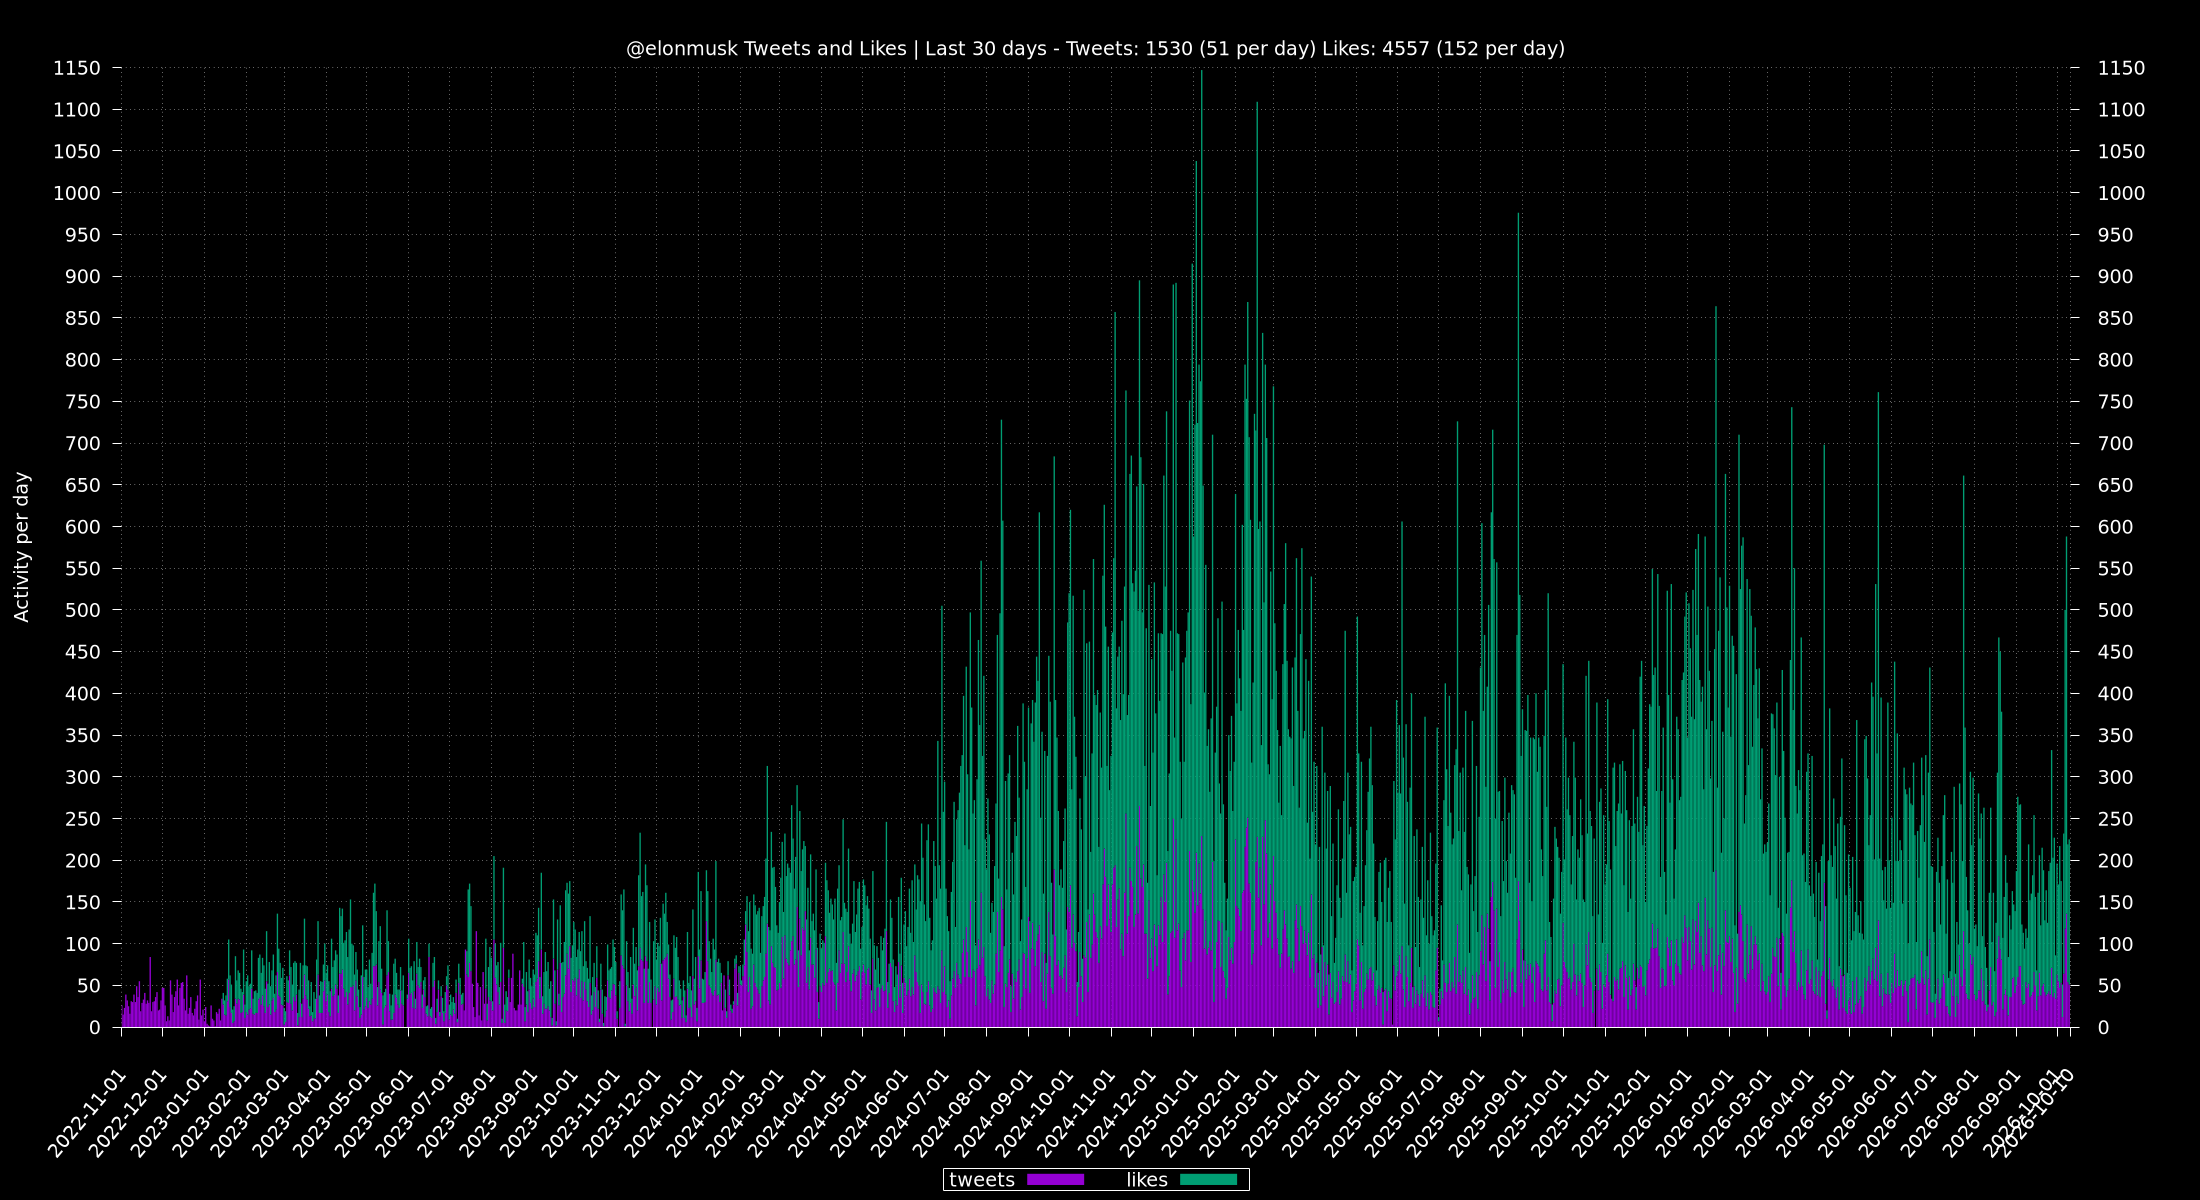
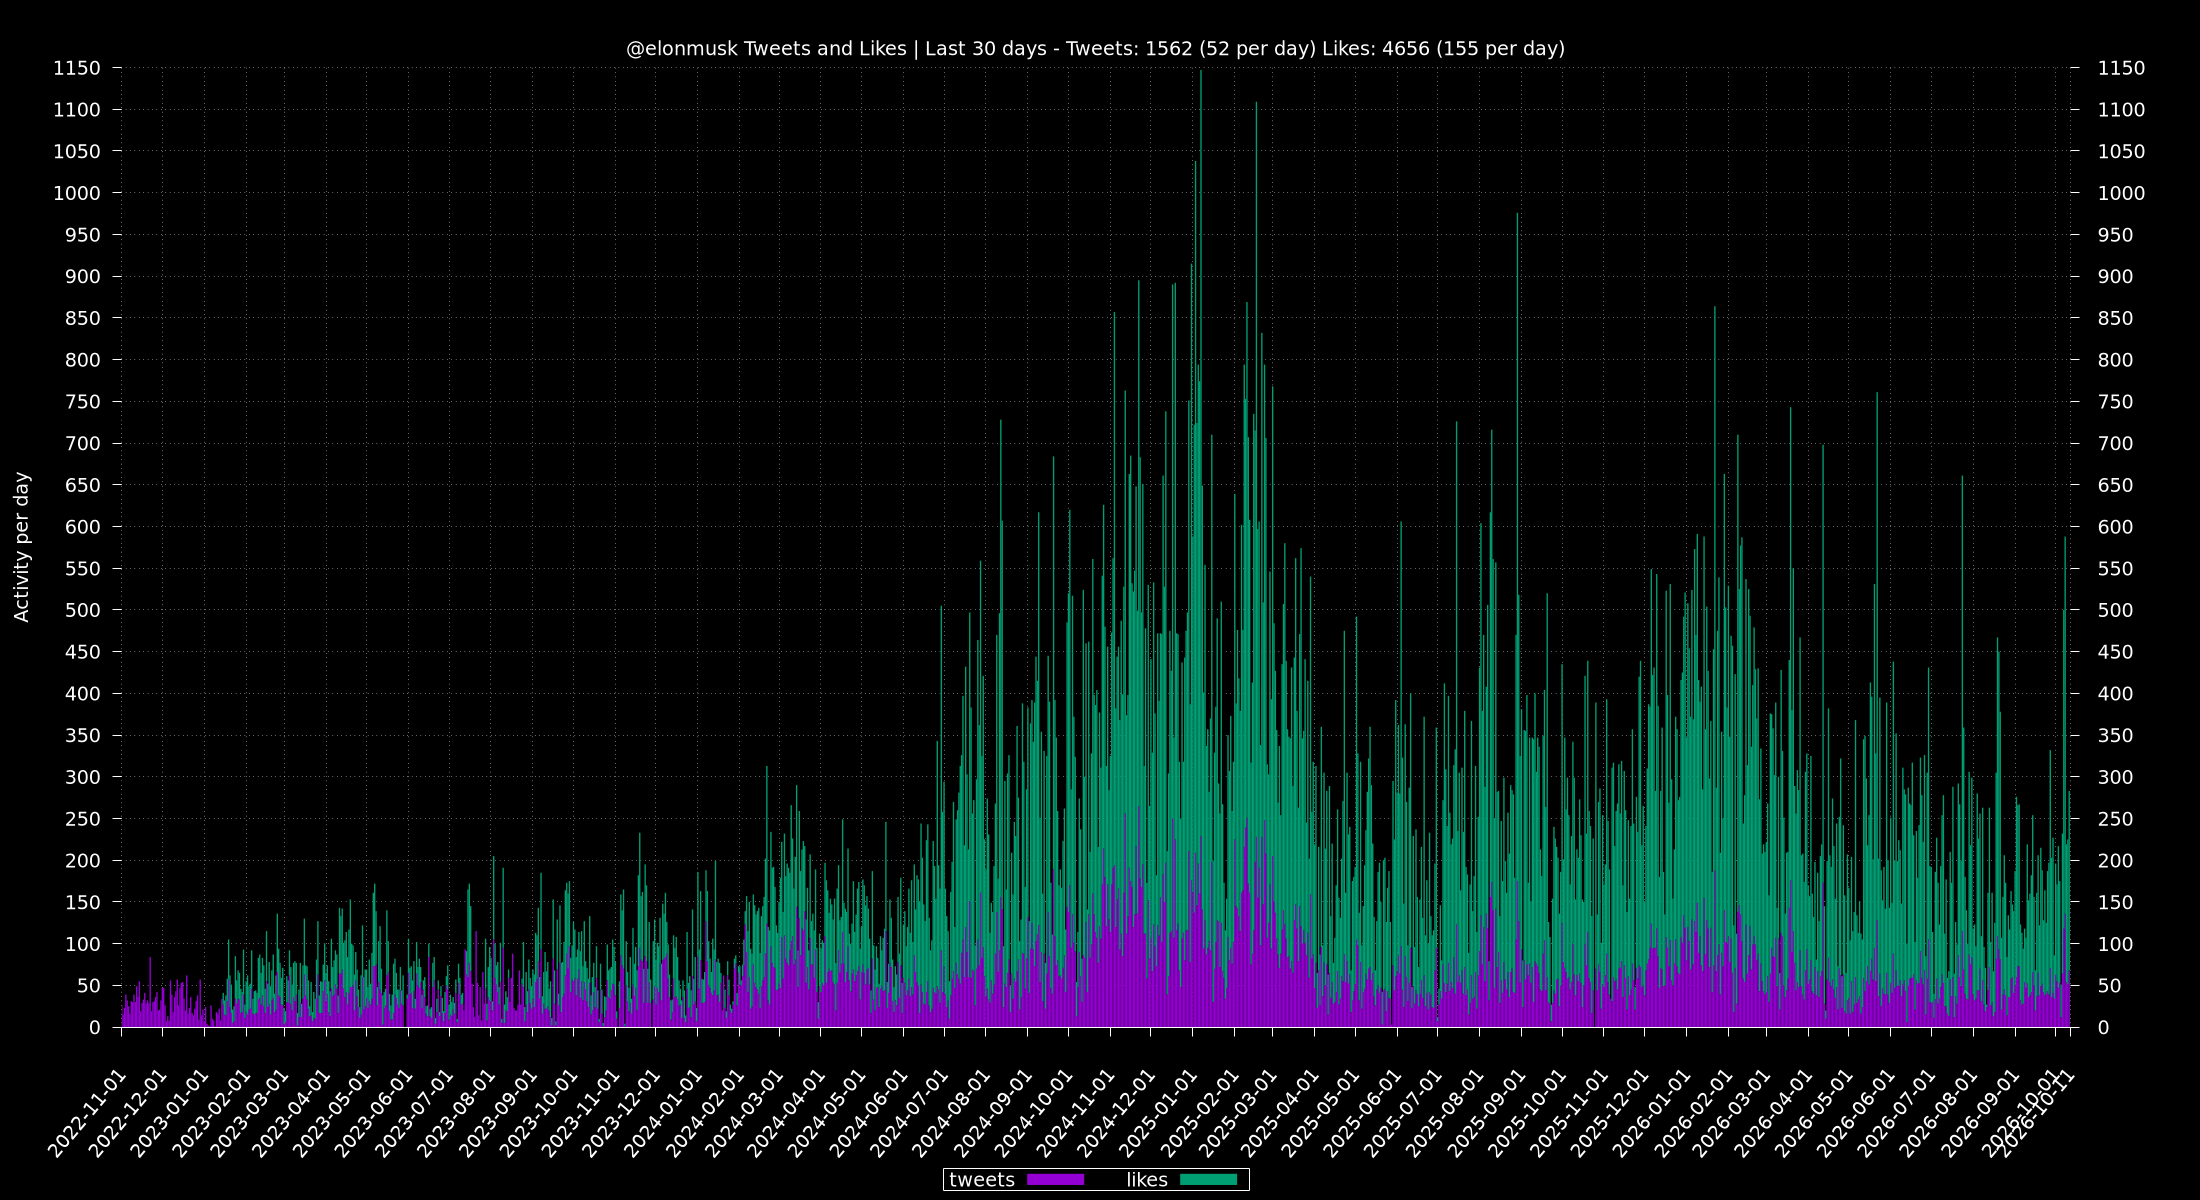
update via cron

Changed region(s): [[0.1545, 0.2158, 0.9582, 0.8633], [0.1545, 0.8942, 0.9273, 0.9558]]

diff --git a/totals/README.md b/totals/README.md
@@ -1,6 +1,6 @@
 ## Last 30 Days
-Tweets: 1530 (51 per day)\
-Likes: 4557 (152 per day)
+Tweets: 1562 (52 per day)\
+Likes: 4656 (155 per day)
 
 ## 24 Hours
 Max: [**341**](../misc/most-tweets_24-hr.csv) - From `2024-11-23 14:29:53 CST` To `2024-11-24 14:28:44 CST`
